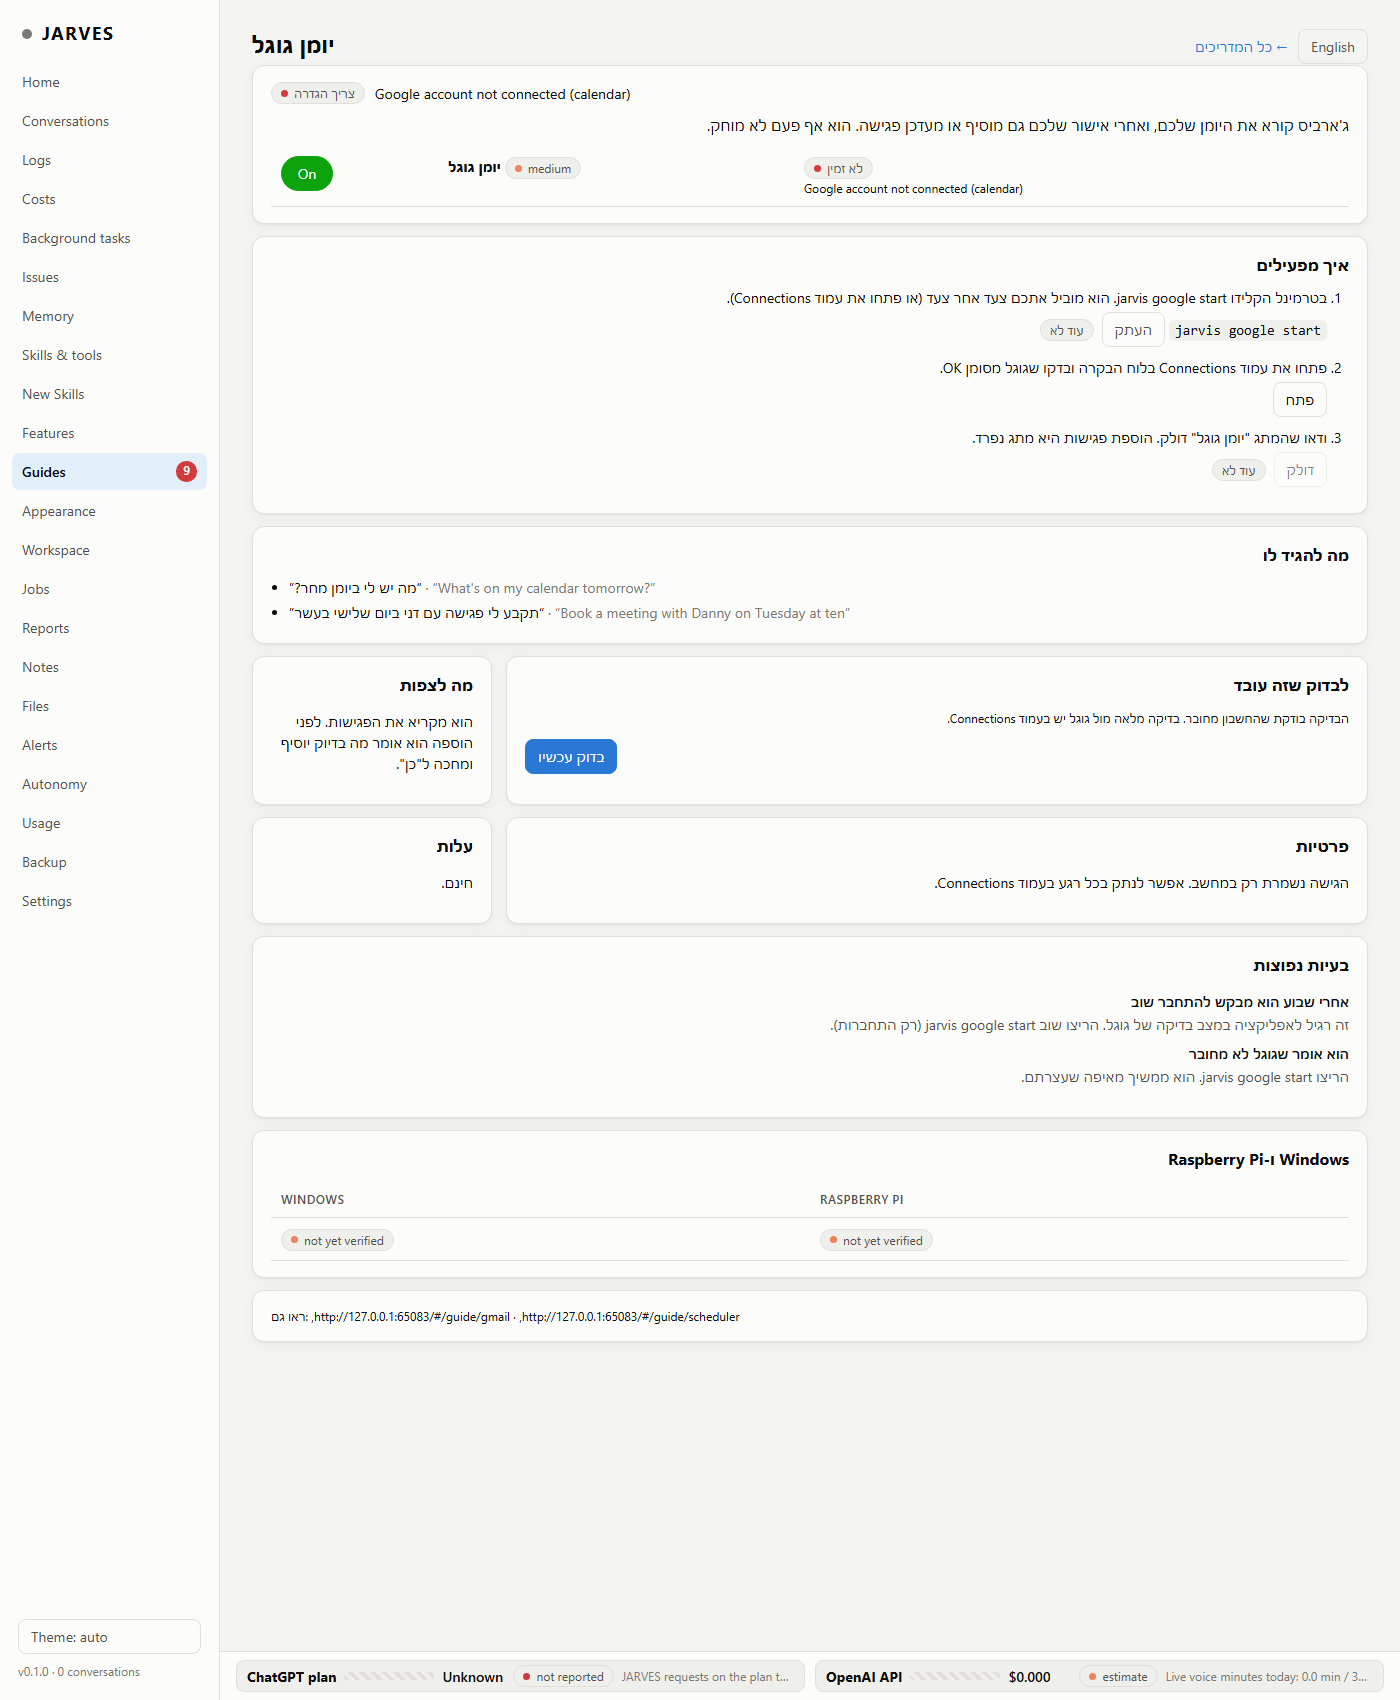
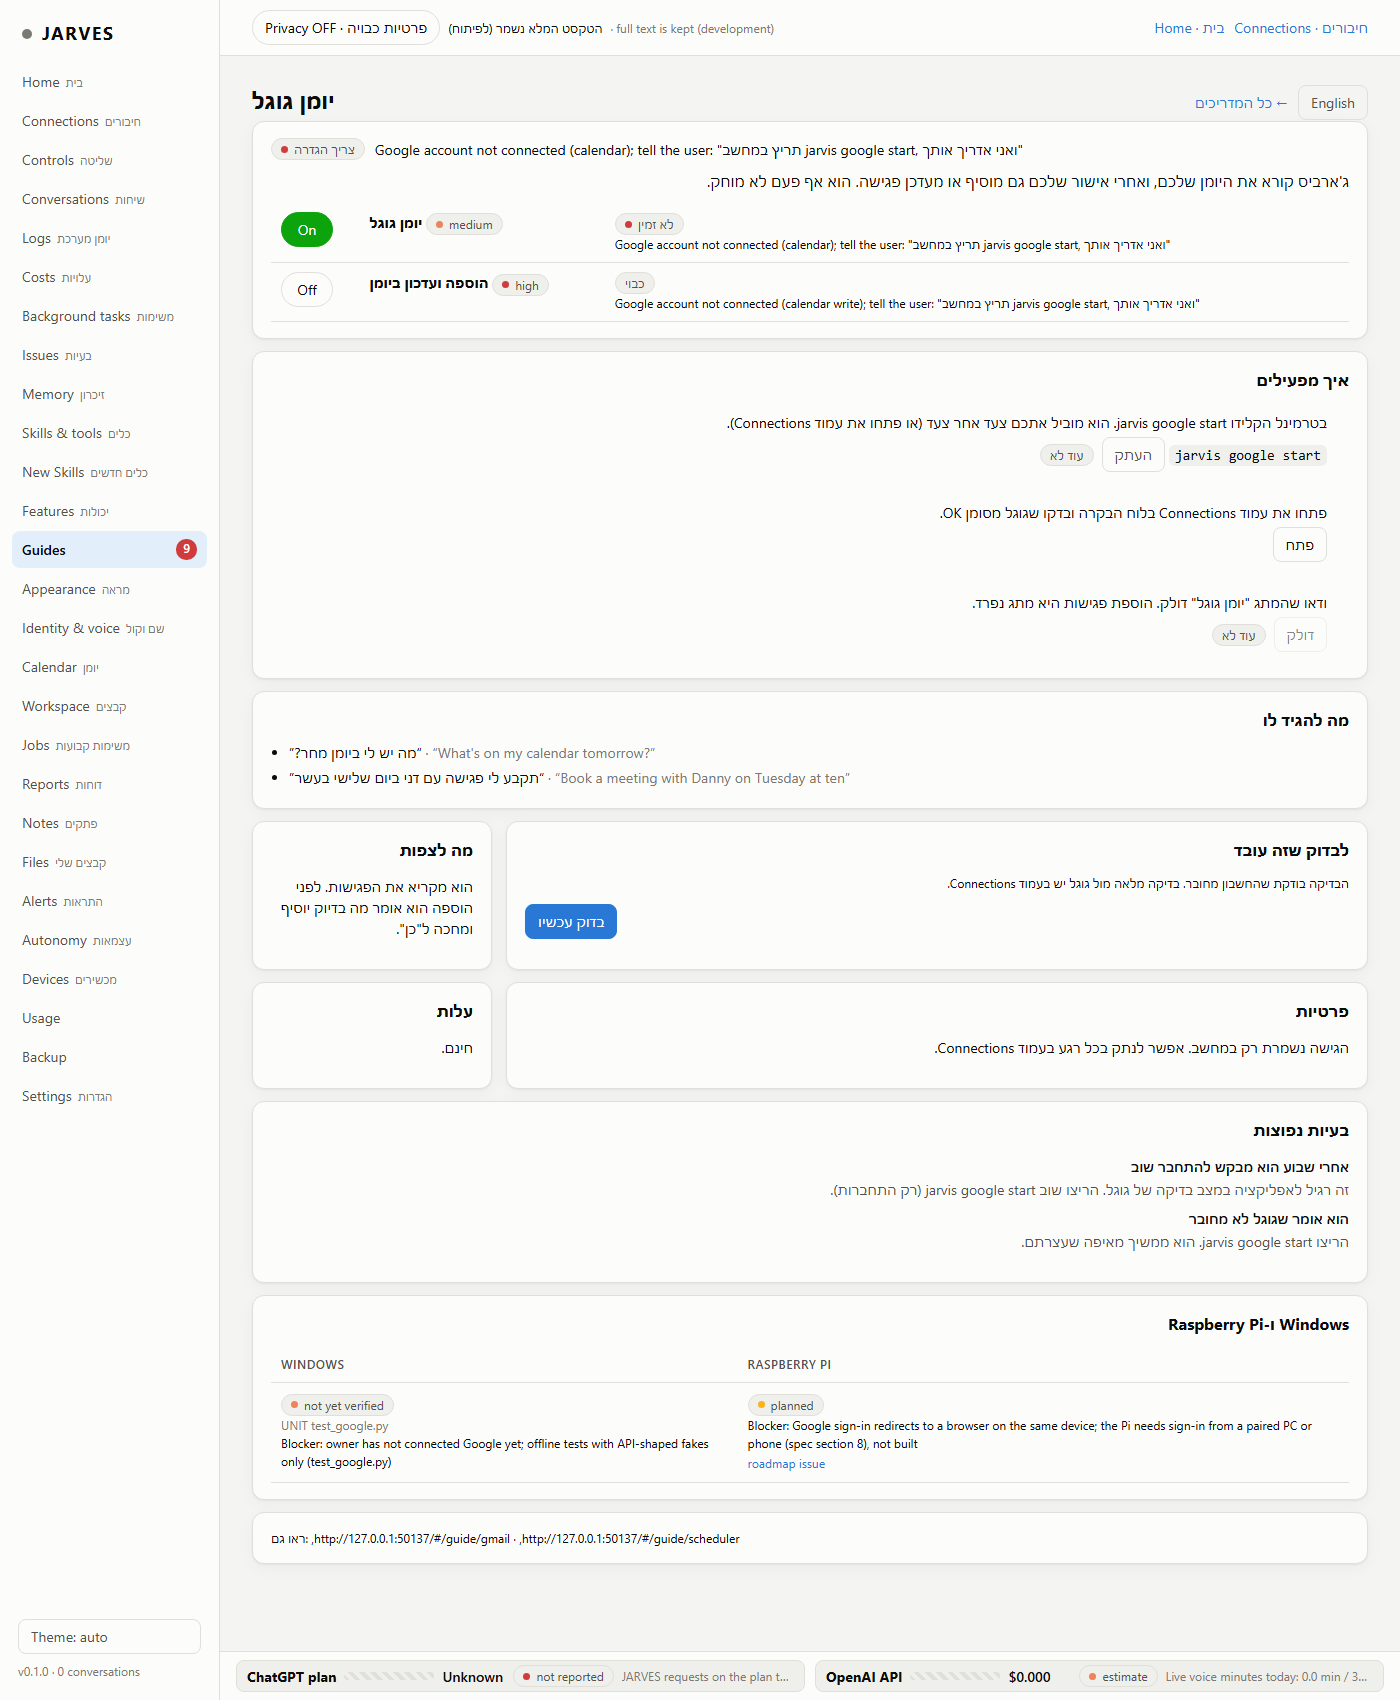
guides: link issue #25 in the capability matrix, Hebrew nav label, refreshed captures, WP-L review (#17)

diff --git a/core/src/jarves/dashboard_static/guides.js b/core/src/jarves/dashboard_static/guides.js
@@ -167,7 +167,7 @@
   const nav = document.getElementById("nav");
   const badge = el("span", { class: "count", id: "guideCount", title: "features that need setup" });
   if (nav && !nav.querySelector('[data-page="guides"]')) {
-    const a = el("a", { href: "#/guides", "data-page": "guides" }, "Guides ", badge);
+    const a = el("a", { href: "#/guides", "data-page": "guides" }, el("span", {}, "Guides ", el("small", { class: "he" }, "מדריכים")), " ", badge);
     const after = nav.querySelector('[data-page="features"]');
     after ? after.after(a) : nav.append(a);
   }

diff --git a/core/src/jarves/capabilities.py b/core/src/jarves/capabilities.py
@@ -34,7 +34,7 @@ TRACKING = "https://github.com/igalgerman/JARVIS/issues/17"
 PI_ROADMAP = "https://github.com/igalgerman/JARVIS/issues/18"
 # Every roadmap issue a feature may link: checked to exist with `gh issue list` on LAST_CHECKED (#19-#23 were
 # created by the other SW-V2 packages for their own Pi gaps). Add a number only after the issue exists.
-KNOWN_ISSUES = {TRACKING, PI_ROADMAP, *(f"https://github.com/igalgerman/JARVIS/issues/{n}" for n in (19, 20, 21, 22, 23))}
+KNOWN_ISSUES = {TRACKING, PI_ROADMAP, *(f"https://github.com/igalgerman/JARVIS/issues/{n}" for n in (19, 20, 21, 22, 23, 25))}   # 25: WP-L
 _ISSUE_URL = re.compile(r"^https://github\.com/igalgerman/JARVIS/issues/\d+$")
 LAST_CHECKED = "2026-10-19"
 

diff --git a/docs/reviews/SWV2_WP-L.md b/docs/reviews/SWV2_WP-L.md
@@ -75,5 +75,55 @@ already covered; until they merge the guide says "not in this version yet".
 - Rule for everyone: a new `features.register(...)` needs a guide in `guides/data/` or
   `test_every_registered_feature_has_exactly_one_guide` fails.
 
+- `capabilities.py` (WP-M4): issue #25 added to KNOWN_ISSUES (created with `gh issue create`).
+- After the swv2-integrate merge: WP-K's `home.js` calls `window.guidesSetupCard()` (one line); the guides link
+  WP-K's Home privacy switch, Connections page and the M1 Controls page (`#/runtime`); the privacy probe reads
+  WP-K's privacy flag file.
+
 ## Tests and evidence
-See the bottom of this file (filled in after the runs).
+- `core/tests/test_guides.py` (24 tests, offline): every registered feature has exactly one guide (fails for a new
+  feature without one), required topics, Hebrew present in every title / sentence / step / phrase / problem, every
+  link / page / action / check valid, find by Hebrew/English/alias, live state follows switches and probes, platform
+  status from feature targets, briefing cap + hot update + TOOLS.md index, Test now checks (backup verify, Pear,
+  camera, AI key, admin key with a fake Costs API), dashboard API, scripted help conversation (Google: step 1 ->
+  "done" while not connected = "not yet" -> connected -> step 2 opens Connections -> finished), risky step needs
+  on-screen approval, setup_hint on FEATURE_OFF and on MUSIC_PLAYER_OFFLINE, suggestions (once per conversation, not
+  again within 7 days, again after, snooze, dismiss, quiet hours, "stop suggesting", failing feature first), the
+  running Core (help tools registered, TOOLS.md has the guide index, backend instructions have the briefing),
+  configurable workweek.
+- Full suite after merging swv2-integrate: 882 passed, 3 skipped, 4 failed. 2 failures fixed (capabilities: #25
+  added). The other 2 (`test_core.py::test_push_to_talk_music_flow`, `test_features.py::test_core_follows_switches`)
+  only fail when nothing listens on Pear's port 127.0.0.1:26538 (the user's Pear was closed during the run); with a
+  dummy listener on that port both pass. They existed before this package (music probe = TCP to Pear).
+  Before the merge: 790 passed, 3 skipped.
+- Headless captures (automatic, not a hands-on check), `python tools/guides_screens.py`:
+  `docs/reviews/swv2_guides/guides_index_he.png`, `guides_index_en.png` (dark), `guides_guide_music_he.png`,
+  `guides_guide_google_calendar_he.png`, `guides_guide_camera_en.png` (dark), `guides_guide_api_budget_he.png`,
+  `guides_home_checklist.png` (WP-K Home + checklist), `guides_features_links.png`.
+- Real silent GPT-Live run (`tools/silent_help.py`, virtual mic/speaker, nothing played):
+  run 1: "איך אני מחבר את גוגל?" -> backend `explain_feature` -> "תפתח טרמינל ותקליד jarvis Google start ... תוודא
+  בעמוד Connections שגוגל מסומן כ-OK" (PASS); "מה אתה יכול לעשות?" -> answered sensibly but the script's keyword list
+  was too narrow (FAIL on the list only; widened). Run 2: both PASS ("...חיפושי מידע, תזכורות, פתקים, קבצים וזיכרון
+  ... רק צריך לחבר את יומן גוגל"). Results: `docs/reviews/swv2_guides/silent_help_run1.json`, `silent_help_run2.json`.
+  Cost: $0.0486 + $0.0486 = **about $0.10** (0.93 voice min each, 4 small backend responses each). Nothing else paid.
+
+## Windows / Raspberry Pi
+- Guides, help Skill, suggestions, hints: pure Python + stdlib TOML, no platform code. Windows:
+  implemented_unverified (offline tests + one silent live run, no hands-on user check yet). Pi:
+  implemented_unverified, follow-up https://github.com/igalgerman/JARVIS/issues/25 (also the hands-on checks and a
+  real admin key).
+
+## Open questions for the user
+1. Suggestion frequency: at most one per conversation and the same one at most once a week (`SUGGEST_EVERY_DAYS` =
+   7). OK, or rarer?
+2. Monthly API budget: the guide button sets the suggested $20 (your "yes for now"); it is NOT set automatically.
+   Should a fresh install set $20 by itself?
+3. Guides open in Hebrew by default (English toggle). OK?
+4. "ימי חול" default Sunday-Thursday (Israel), switchable to Monday-Friday on the Jobs page. OK?
+
+## Not done / limits
+- The front voice model gets only a short note (what needs setup + "delegate help questions"); the full briefing is
+  in the backend instructions, fixed per conversation by GPT-Live (a switch flipped mid-conversation reaches the
+  next one; TOOLS.md and tool errors with setup_hint follow at once).
+- "Test now" never plays music or takes a picture; wake word / chimes only check the device and package.
+- Music's Windows / Pi status shows "not yet verified" because the music feature declares no targets (owner WP-E).
